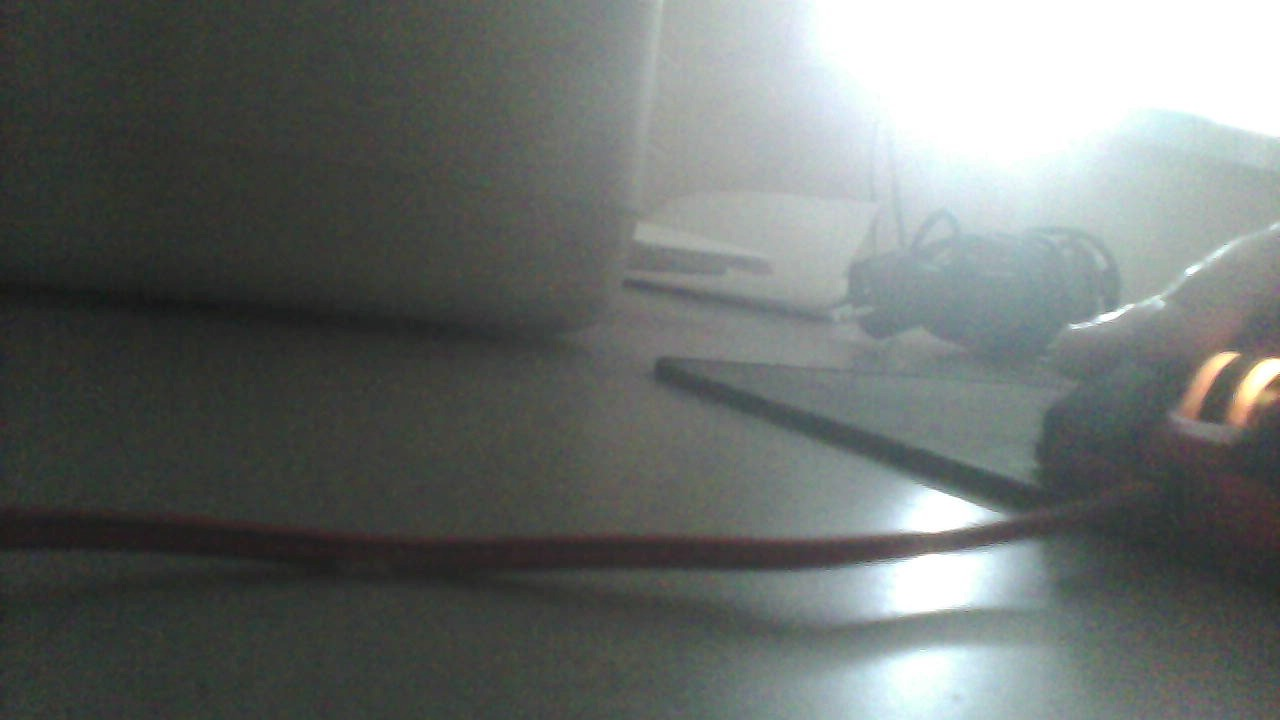
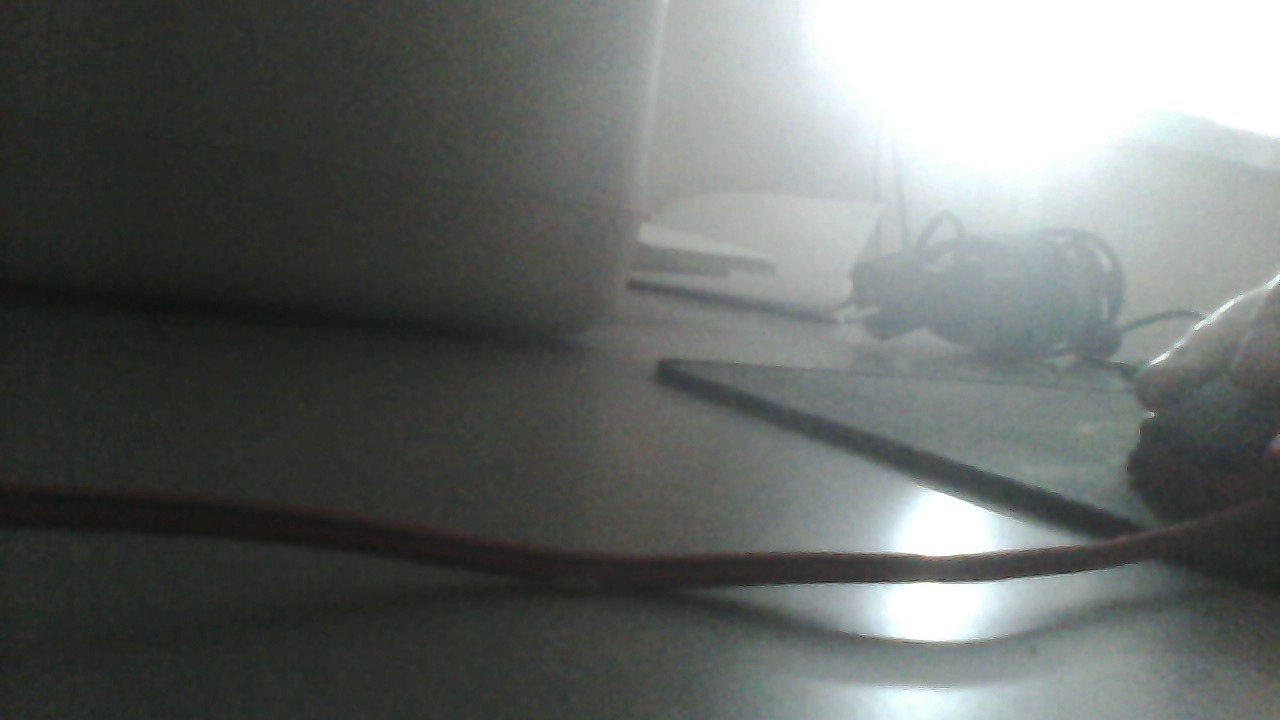
Add digit recognition sending via websocket

diff --git a/aiohttp/src/static/index.html b/aiohttp/src/static/index.html
@@ -2,18 +2,18 @@
 <html>
     <head>
         <script src="/static/jsmpeg.min.js"></script>
-        <script src="/static/mjpeg.js"></script>
+        <!-- <script src="/static/mjpeg.js"></script> -->
         <script src="https://code.jquery.com/jquery-3.4.0.min.js"></script>
     </head>
     <body>
         <h1>Digit recognition</h1>
         <p class="digit"></p>
         <!-- <img src="http://127.0.0.1:8000/feed/1"></img> -->
-        <canvas id="player" style="background: #000;"></canvas>
-        <script>
-            var player = new MJPEG.Player("player", "http://localhost:8000/mjpeg/1");
-            player.start();
-        </script>
+        <!-- <canvas id="player" style="background: #000;"></canvas> -->
+        <!-- <script> -->
+            <!-- // var player = new MJPEG.Player("player", "http://localhost:8000/mjpeg/1");
+            // player.start(); -->
+        <!-- </script> -->
         <video id="video"></video>
         <!-- <div class="jsmpeg" data-url="ws://127.0.0.1:8000/ws/mpeg/1"></div> -->
         <script type="text/javascript" src="/static/script.js"></script>

diff --git a/aiohttp/src/static/script.js b/aiohttp/src/static/script.js
@@ -5,7 +5,7 @@ socket.onopen = function() {
 };
 
 socket.onmessage = function(event) {
-    //console.log("Got data: " + event.data);
+    console.log("Got data: " + event.data);
     var elements = document.getElementsByClassName("digit");
     Array.from(elements)
     .map(function (elem) {
@@ -27,7 +27,7 @@ socket.onerror = function(error) {
 };
 
 constraints = {
-    video: { width: 1280, height: 720 }
+    video: { width: 300, height: 300 }
 }
 
 navigator.mediaDevices.getUserMedia(constraints)
@@ -49,7 +49,6 @@ navigator.mediaDevices.getUserMedia(constraints)
     );
 
 function clicked () {
-    alert('clicked!');
     var { blob } = captureVideoFrame("video", "jpeg");
     var fd = new FormData();
     fd.append('data', blob);

diff --git a/aiohttp/src/app.py b/aiohttp/src/app.py
@@ -44,49 +44,58 @@ async def ws_connection(request):
     return ws
 
 # Video streaming through motion jpeg
-@router.get("/mjpeg/{id}")
-async def get_mjpeg(request):
-    id = request.match_info['id']
-    response = web.StreamResponse(
-        status=200,
-        reason='OK',
-        headers={
-            'Content-Type': 'multipart/x-mixed-replace;boundary=--bound'
-        }
-    )
-    await response.prepare(request)
-    files = gen_files("files")
+# @router.get("/mjpeg/{id}")
+# async def get_mjpeg(request):
+#     id = request.match_info['id']
+#     response = web.StreamResponse(
+#         status=200,
+#         reason='OK',
+#         headers={
+#             'Content-Type': 'multipart/x-mixed-replace;boundary=--bound'
+#         }
+#     )
+#     await response.prepare(request)
+#     files = gen_files("files")
 
-    #
-    model = load_model('model/digs.h5')
-    #
-    while True:
-        async with aiofiles.open(f"files/{next(files)}", "rb+") as f:
-            frame = await f.read()
-            nframe = Image.open(io.BytesIO(frame)).convert('LA')
-            nframe = nframe.resize((28,28))
-            nframe, dump = nframe.split()
-            nframe = np.array(nframe)
-            nframe = np.reshape(nframe,(1,784))
-            s = np.argmax(model.predict(nframe)) 
-            if id in sockets and sockets[id].output_sockets:
-                for sock in sockets[id].output_sockets:
-                    await sock.send_str(str(s))
-        with MultipartWriter('image/jpeg', boundary='bound') as mpwriter:
-            mpwriter.append(frame, {
-                'Content-Type': 'image/jpeg'
-            })
-            await mpwriter.write(response, close_boundary=False)
-        await response.drain()
+#     #
+#     model = load_model('model/digs.h5')
+#     #
+#     while True:
+#         async with aiofiles.open(f"files/{next(files)}", "rb+") as f:
+#             frame = await f.read()
+#             nframe = Image.open(io.BytesIO(frame)).convert('LA')
+#             nframe = nframe.resize((28,28))
+#             nframe, dump = nframe.split()
+#             nframe = np.array(nframe)
+#             nframe = np.reshape(nframe,(1,784))
+#             s = np.argmax(model.predict(nframe)) 
+#             if id in sockets and sockets[id].output_sockets:
+#                 for sock in sockets[id].output_sockets:
+#                     await sock.send_str(str(s))
+#         with MultipartWriter('image/jpeg', boundary='bound') as mpwriter:
+#             mpwriter.append(frame, {
+#                 'Content-Type': 'image/jpeg'
+#             })
+#             await mpwriter.write(response, close_boundary=False)
+#         await response.drain()
 
 @router.post("/image/{id}")
 async def get_jpeg(request):
     id = request.match_info['id']
     post = await request.post()
     file_field = post['data']
+    model = load_model('model/digs.h5')
     image_bytes = file_field.file.read()
-    image_pil = Image.open(io.BytesIO(image_bytes))
-    image_resized = image_pil.resize((24, 24), Image.ANTIALIAS)
+    image_pil = Image.open(io.BytesIO(image_bytes)).convert('LA')
+    image_pil = image_pil.resize((28, 28), Image.ANTIALIAS)
+    # image_pil.save("static/image.png")
+    image_pil, dump = image_pil.split() 
+    image_pil = np.array(image_pil) 
+    image_pil = np.reshape(image_pil,(1,784)) 
+    s = np.argmax(model.predict(image_pil))
+    if id in sockets and sockets[id].output_sockets:
+        for sock in sockets[id].output_sockets:
+            await sock.send_str(f"new: {s}")
     async with aiofiles.open('static/filename.jpeg', 'wb+') as f:
         await f.write(image_bytes)
     return web.Response(text="OK")
